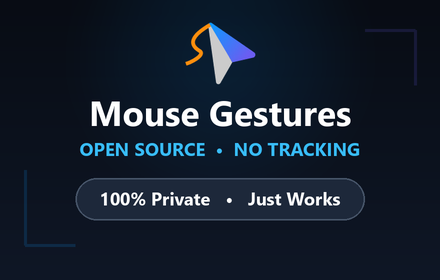
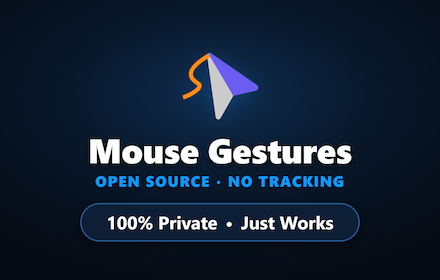
Add promotional screenshots for the app

Changed region(s): [[0.1477, 0.4857, 0.8273, 0.8857], [0.2068, 0.0857, 0.7977, 0.4571], [0.0295, 0.6, 0.1773, 0.8857]]

diff --git a/screenshots/promo-tile.html b/screenshots/promo-tile.html
@@ -1,0 +1,138 @@
+<!DOCTYPE html>
+<html lang="en">
+<head>
+  <meta charset="utf-8">
+  <meta name="viewport" content="width=device-width, initial-scale=1">
+  <title>Mouse Gestures — Promo Tile</title>
+  <style>
+    * {
+      margin: 0;
+      padding: 0;
+      box-sizing: border-box;
+    }
+    body {
+      width: 1280px;
+      height: 800px;
+      background: #060b13;
+      background: radial-gradient(ellipse 80% 70% at 50% 34%, #0f2b4e 0%, #081729 46%, #050a12 100%);
+      display: flex;
+      flex-direction: column;
+      align-items: center;
+      justify-content: center;
+      font-family: -apple-system, BlinkMacSystemFont, "Segoe UI", Roboto, Helvetica, Arial, sans-serif;
+      color: #ffffff;
+      overflow: hidden;
+      -webkit-font-smoothing: antialiased;
+      -moz-osx-font-smoothing: grayscale;
+    }
+    .content {
+      display: flex;
+      flex-direction: column;
+      align-items: center;
+      justify-content: center;
+      margin-top: 15px;
+    }
+    .icon-wrapper {
+      width: 220px;
+      height: 220px;
+      margin-bottom: 22px;
+      display: flex;
+      align-items: center;
+      justify-content: center;
+      filter: drop-shadow(0 9px 33px rgba(13, 153, 255, 0.25));
+    }
+    .icon-wrapper svg {
+      width: 100%;
+      height: 100%;
+    }
+    .title {
+      font-size: 94px;
+      font-weight: 800;
+      color: #ffffff;
+      letter-spacing: -0.5px;
+      line-height: 1.05;
+      margin-bottom: 18px;
+      text-shadow: 0 4px 20px rgba(0, 0, 0, 0.5);
+    }
+    .subtitle {
+      font-size: 42px;
+      font-weight: 800;
+      color: #0D99FF;
+      letter-spacing: 2.5px;
+      display: flex;
+      align-items: center;
+      gap: 18px;
+      margin-bottom: 42px;
+      text-transform: uppercase;
+      line-height: 1;
+    }
+    .bullet {
+      font-size: 32px;
+      color: #0D99FF;
+      line-height: 1;
+    }
+    .pill {
+      display: inline-flex;
+      align-items: center;
+      justify-content: center;
+      gap: 22px;
+      padding: 24px 68px;
+      background: rgba(14, 33, 58, 0.85);
+      border: 3px solid rgba(45, 105, 175, 0.8);
+      border-radius: 9999px;
+      box-shadow: 0 12px 36px rgba(0, 0, 0, 0.4);
+      line-height: 1;
+    }
+    .pill span {
+      font-size: 50px;
+      font-weight: 700;
+      color: #ffffff;
+      line-height: 1;
+      display: inline-block;
+      transform: translateY(-1px);
+    }
+    .pill-bullet {
+      font-size: 38px;
+      color: rgba(255, 255, 255, 0.85);
+      line-height: 1;
+      display: inline-block;
+      transform: translateY(-1px);
+    }
+  </style>
+</head>
+<body>
+  <div class="content">
+    <!-- App Logo Icon -->
+    <div class="icon-wrapper">
+      <svg viewBox="0 0 128 128" fill="none" xmlns="http://www.w3.org/2000/svg">
+        <path d="M43.99 17.8416C44.3343 16.9531 44.897 16.1847 45.6091 15.6304L85.2118 83.7128L64.9886 119.023C62.7888 122.878 57.7002 121.894 57.0961 117.497L43.6706 20.6327C43.5347 19.7 43.6457 18.73 43.99 17.8416Z" fill="#CBCBCB"/>
+        <path d="M47.5639 15.082C46.7163 15.1139 45.8837 15.4228 45.168 15.9711L85.3181 83.6308L121.461 75.417C125.404 74.5286 126.521 68.7529 123.194 66.4587L49.9401 15.7916C49.2372 15.2967 48.4115 15.0501 47.5639 15.082Z" fill="url(#paint0_linear_752_45)"/>
+        <path d="M8.08502 85.1137C17.3777 82.0645 38.5495 69.8979 28.7899 63.8659C19.0303 57.8339 3.08471 45.1011 44.0793 20.4" stroke="#FF8E0D" stroke-width="6.46653" stroke-linecap="square"/>
+        <defs>
+          <linearGradient id="paint0_linear_752_45" x1="47.7987" y1="17.5966" x2="113.202" y2="71.2841" gradientUnits="userSpaceOnUse">
+            <stop stop-color="#0D99FF"/>
+            <stop offset="1" stop-color="#6B5DF1"/>
+          </linearGradient>
+        </defs>
+      </svg>
+    </div>
+
+    <!-- Title -->
+    <div class="title">Mouse Gestures</div>
+
+    <!-- Subtitle -->
+    <div class="subtitle">
+      <span>OPEN SOURCE</span>
+      <span class="bullet">•</span>
+      <span>NO TRACKING</span>
+    </div>
+
+    <!-- Features Pill Badge -->
+    <div class="pill">
+      <span>100% Private</span>
+      <span class="pill-bullet">•</span>
+      <span>Just Works</span>
+    </div>
+  </div>
+</body>
+</html>

diff --git a/screenshots/small-promo-tile-4x.html b/screenshots/small-promo-tile-4x.html
@@ -1,0 +1,137 @@
+<!DOCTYPE html>
+<html lang="en">
+<head>
+  <meta charset="utf-8">
+  <title>Mouse Gestures — Small Promo Tile 4X (1760x1120)</title>
+  <style>
+    * {
+      margin: 0;
+      padding: 0;
+      box-sizing: border-box;
+    }
+    body {
+      width: 1760px;
+      height: 1120px;
+      background: #060b13;
+      background: radial-gradient(ellipse 80% 70% at 50% 34%, #0f2b4e 0%, #081729 46%, #050a12 100%);
+      display: flex;
+      flex-direction: column;
+      align-items: center;
+      justify-content: center;
+      font-family: -apple-system, BlinkMacSystemFont, "Segoe UI", Roboto, Helvetica, Arial, sans-serif;
+      color: #ffffff;
+      overflow: hidden;
+      -webkit-font-smoothing: antialiased;
+      -moz-osx-font-smoothing: grayscale;
+    }
+    .content {
+      display: flex;
+      flex-direction: column;
+      align-items: center;
+      justify-content: center;
+      margin-top: 20px;
+    }
+    .icon-wrapper {
+      width: 320px;
+      height: 320px;
+      margin-bottom: 32px;
+      display: flex;
+      align-items: center;
+      justify-content: center;
+      filter: drop-shadow(0 14px 44px rgba(13, 153, 255, 0.25));
+    }
+    .icon-wrapper svg {
+      width: 100%;
+      height: 100%;
+    }
+    .title {
+      font-size: 136px;
+      font-weight: 800;
+      color: #ffffff;
+      letter-spacing: -1px;
+      line-height: 1.05;
+      margin-bottom: 24px;
+      text-shadow: 0 6px 28px rgba(0, 0, 0, 0.5);
+    }
+    .subtitle {
+      font-size: 60px;
+      font-weight: 800;
+      color: #0D99FF;
+      letter-spacing: 3.6px;
+      display: flex;
+      align-items: center;
+      gap: 24px;
+      margin-bottom: 60px;
+      text-transform: uppercase;
+      line-height: 1;
+    }
+    .bullet {
+      font-size: 44px;
+      color: #0D99FF;
+      line-height: 1;
+    }
+    .pill {
+      display: inline-flex;
+      align-items: center;
+      justify-content: center;
+      gap: 32px;
+      padding: 36px 100px;
+      background: rgba(14, 33, 58, 0.85);
+      border: 5px solid rgba(45, 105, 175, 0.8);
+      border-radius: 9999px;
+      box-shadow: 0 18px 50px rgba(0, 0, 0, 0.4);
+      line-height: 1;
+    }
+    .pill span {
+      font-size: 72px;
+      font-weight: 700;
+      color: #ffffff;
+      line-height: 1;
+      display: inline-block;
+      transform: translateY(-2px);
+    }
+    .pill-bullet {
+      font-size: 54px;
+      color: rgba(255, 255, 255, 0.85);
+      line-height: 1;
+      display: inline-block;
+      transform: translateY(-2px);
+    }
+  </style>
+</head>
+<body>
+  <div class="content">
+    <!-- App Logo Icon -->
+    <div class="icon-wrapper">
+      <svg viewBox="0 0 128 128" fill="none" xmlns="http://www.w3.org/2000/svg">
+        <path d="M43.99 17.8416C44.3343 16.9531 44.897 16.1847 45.6091 15.6304L85.2118 83.7128L64.9886 119.023C62.7888 122.878 57.7002 121.894 57.0961 117.497L43.6706 20.6327C43.5347 19.7 43.6457 18.73 43.99 17.8416Z" fill="#CBCBCB"/>
+        <path d="M47.5639 15.082C46.7163 15.1139 45.8837 15.4228 45.168 15.9711L85.3181 83.6308L121.461 75.417C125.404 74.5286 126.521 68.7529 123.194 66.4587L49.9401 15.7916C49.2372 15.2967 48.4115 15.0501 47.5639 15.082Z" fill="url(#paint0_linear_752_45)"/>
+        <path d="M8.08502 85.1137C17.3777 82.0645 38.5495 69.8979 28.7899 63.8659C19.0303 57.8339 3.08471 45.1011 44.0793 20.4" stroke="#FF8E0D" stroke-width="6.46653" stroke-linecap="square"/>
+        <defs>
+          <linearGradient id="paint0_linear_752_45" x1="47.7987" y1="17.5966" x2="113.202" y2="71.2841" gradientUnits="userSpaceOnUse">
+            <stop stop-color="#0D99FF"/>
+            <stop offset="#1" stop-color="#6B5DF1"/>
+          </linearGradient>
+        </defs>
+      </svg>
+    </div>
+
+    <!-- Title -->
+    <div class="title">Mouse Gestures</div>
+
+    <!-- Subtitle -->
+    <div class="subtitle">
+      <span>OPEN SOURCE</span>
+      <span class="bullet">•</span>
+      <span>NO TRACKING</span>
+    </div>
+
+    <!-- Features Pill Badge -->
+    <div class="pill">
+      <span>100% Private</span>
+      <span class="pill-bullet">•</span>
+      <span>Just Works</span>
+    </div>
+  </div>
+</body>
+</html>
